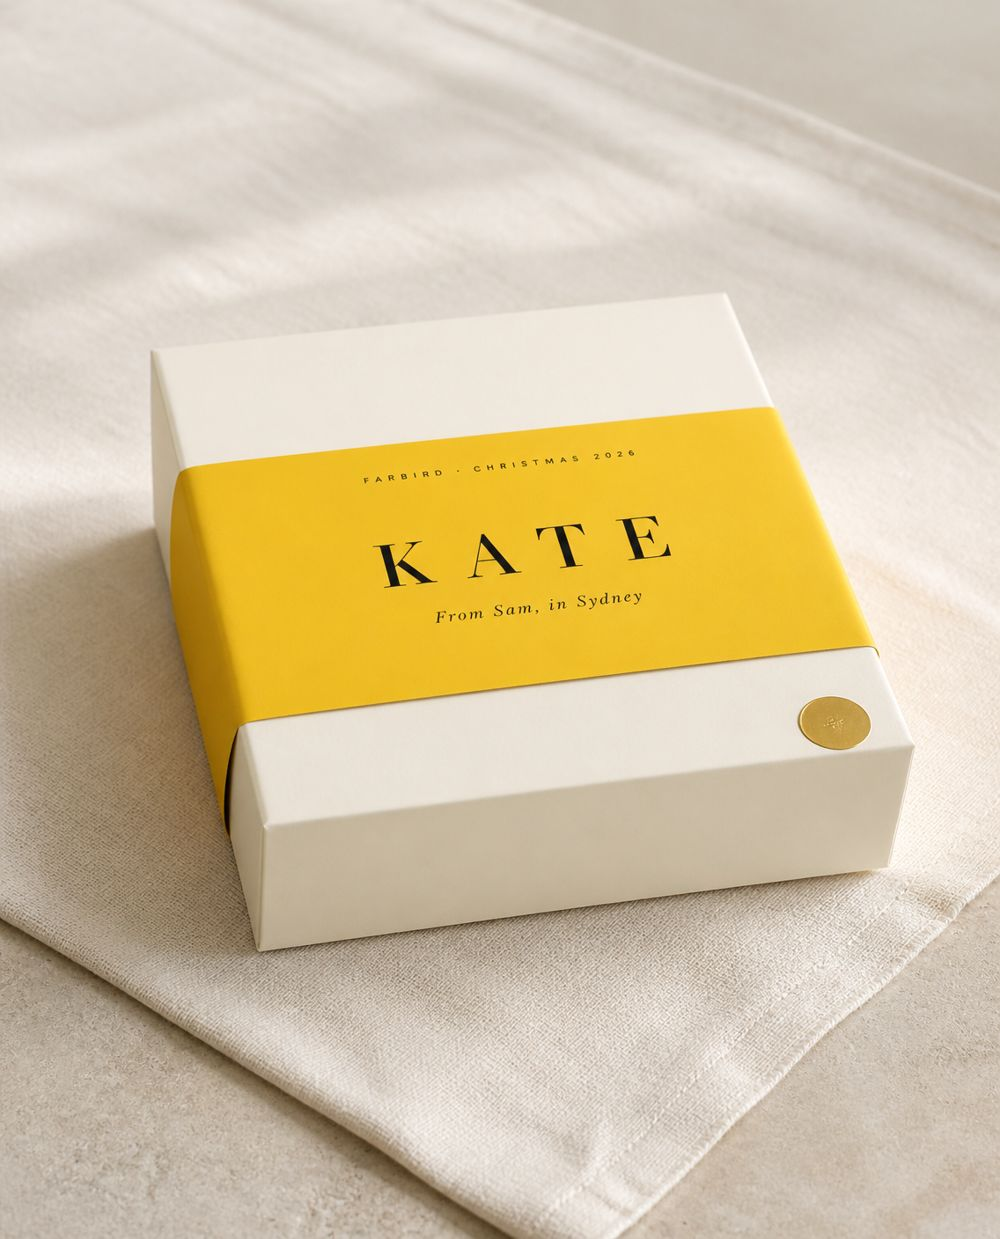
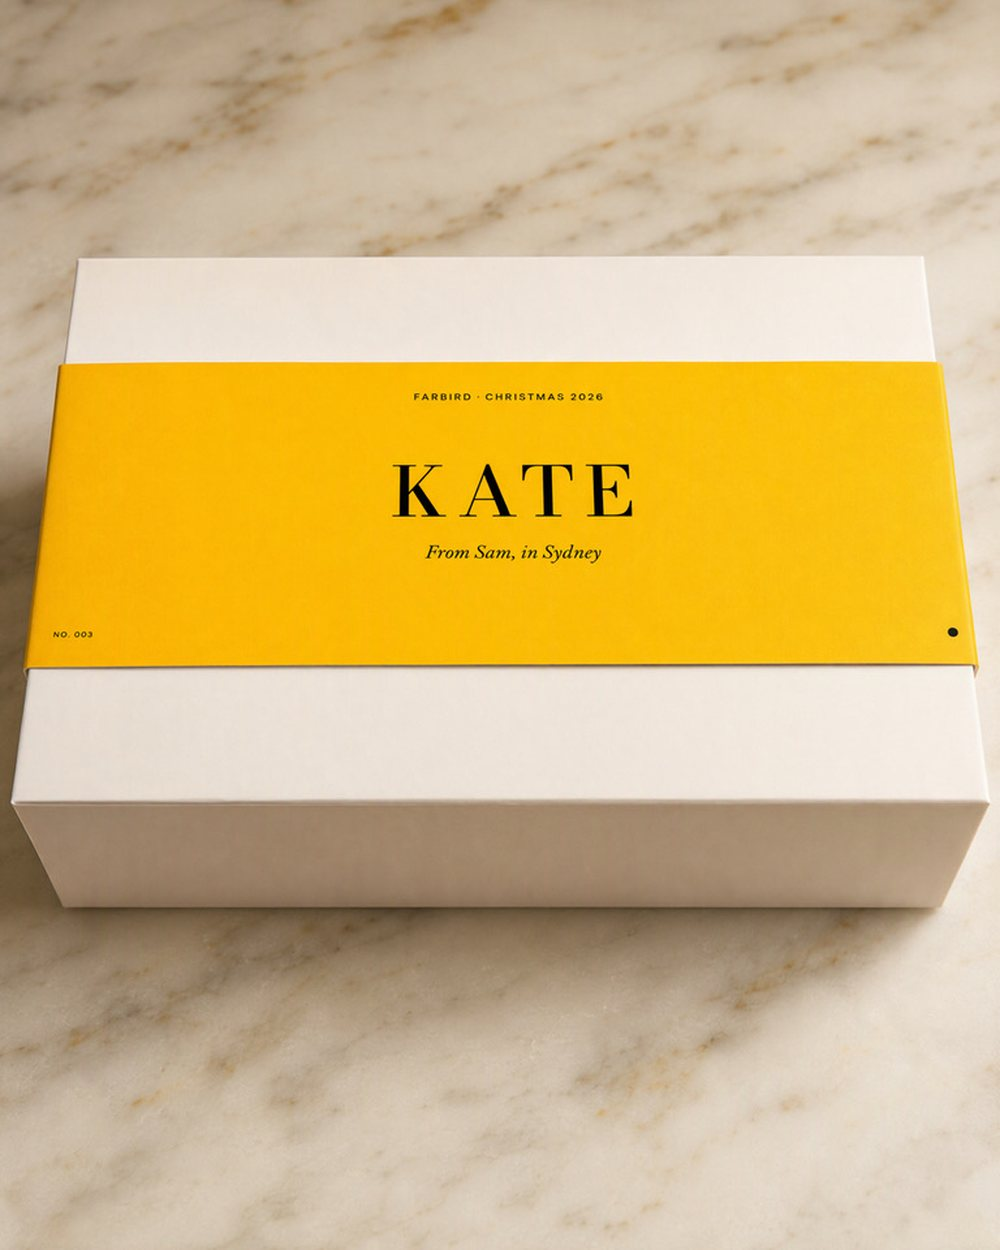
Replace concept box renders with prototype box photos
Ten outside and peek-inside shots (Sandra, Graham, Kate, Aroha, Nico), cropped to 4:5 with the editor watermark removed. Alt text describes each box's contents; the prototype note and the What's inside image now use the real Mum box.

Claude-Session: https://claude.ai/code/session_01P4aSddHCH2b35pEcE18pJC

diff --git a/index.html b/index.html
@@ -334,11 +334,11 @@
       <h2 class="section" id="boxesH">You pick who it's for. We pick what's in it.</h2>
       <p class="sub">Each box is built around one person: one thing that's trending overseas right now, plus treats from home. No browsing forty options at 11pm.</p>
       <ul class="boxgrid">
-        <li><figure><div class="shot"><div class="tile" style="background:var(--pohutukawa);color:var(--ivory)">MUM</div><img src="img/box-mum.jpg" alt="The Mum box: a red sleeve printed with the name Sandra on an ivory box" loading="lazy" onerror="this.remove()"><img class="open" src="img/box-mum-open.jpg" alt="" loading="lazy" onerror="this.remove()"><span class="peek">Peek inside</span></div><h3>Mum</h3><p>The one she'll show everyone at the bach.</p></figure></li>
-        <li><figure><div class="shot"><div class="tile" style="background:var(--bush);color:var(--ivory)">GRAHAM</div><img src="img/box-dad.jpg" alt="The Dad box: a bush-green sleeve printed with the name Graham on an ivory box" loading="lazy" onerror="this.remove()"><img class="open" src="img/box-dad-open.jpg" alt="" loading="lazy" onerror="this.remove()"><span class="peek">Peek inside</span></div><h3>Dad</h3><p>Better than socks. Still might include socks.</p></figure></li>
-        <li><figure><div class="shot"><div class="tile" style="background:var(--kowhai);color:var(--ink)">KATE</div><img src="img/box-sibling.jpg" alt="The Sibling box: a kōwhai-yellow sleeve printed with the name Kate on an ivory box" loading="lazy" onerror="this.remove()"><img class="open" src="img/box-sibling-open.jpg" alt="" loading="lazy" onerror="this.remove()"><span class="peek">Peek inside</span></div><h3>The sibling</h3><p>Finally, a present that makes your sister look bad.</p></figure></li>
-        <li><figure><div class="shot"><div class="tile" style="background:var(--musk);color:var(--ink)">AROHA</div><img src="img/box-partner.jpg" alt="The Partner box: a musk-pink sleeve on an ivory box" loading="lazy" onerror="this.remove()"><img class="open" src="img/box-partner-open.jpg" alt="" loading="lazy" onerror="this.remove()"><span class="peek">Peek inside</span></div><h3>Long-distance partner</h3><p>Because a video call isn't a present.</p></figure></li>
-        <li><figure><div class="shot"><div class="tile" style="background:var(--jandal);color:var(--ivory)">NICO</div><img src="img/box-kids.jpg" alt="The Kids box: a jandal-blue sleeve on an ivory box" loading="lazy" onerror="this.remove()"><img class="open" src="img/box-kids-open.jpg" alt="" loading="lazy" onerror="this.remove()"><span class="peek">Peek inside</span></div><h3>The kids</h3><p>Nieces, nephews, godkids. Instant favourite uncle.</p></figure></li>
+        <li><figure><div class="shot"><div class="tile" style="background:var(--pohutukawa);color:var(--ivory)">MUM</div><img src="img/box-mum.jpg" alt="The Mum box: a red sleeve printed with the name Sandra on an ivory box" loading="lazy" onerror="this.remove()"><img class="open" src="img/box-mum-open.jpg" alt="Inside the Mum box: a stoneware mug, L'Occitane hand cream, Bonne Maman jam and a card for Sandra" loading="lazy" onerror="this.remove()"><span class="peek">Peek inside</span></div><h3>Mum</h3><p>The one she'll show everyone at the bach.</p></figure></li>
+        <li><figure><div class="shot"><div class="tile" style="background:var(--bush);color:var(--ivory)">GRAHAM</div><img src="img/box-dad.jpg" alt="The Dad box: a bush-green sleeve printed with the name Graham on an ivory box" loading="lazy" onerror="this.remove()"><img class="open" src="img/box-dad-open.jpg" alt="Inside the Dad box: a BrüMate cup, Happy Socks, Mike's Hot Honey and a card for Graham" loading="lazy" onerror="this.remove()"><span class="peek">Peek inside</span></div><h3>Dad</h3><p>Better than socks. Still might include socks.</p></figure></li>
+        <li><figure><div class="shot"><div class="tile" style="background:var(--kowhai);color:var(--ink)">KATE</div><img src="img/box-sibling.jpg" alt="The Sibling box: a kōwhai-yellow sleeve printed with the name Kate on an ivory box" loading="lazy" onerror="this.remove()"><img class="open" src="img/box-sibling-open.jpg" alt="Inside the Sibling box: a BrüMate tumbler, Sol de Janeiro body cream, Dubai pistachio chocolate and a card for Kate" loading="lazy" onerror="this.remove()"><span class="peek">Peek inside</span></div><h3>The sibling</h3><p>Finally, a present that makes your sister look bad.</p></figure></li>
+        <li><figure><div class="shot"><div class="tile" style="background:var(--musk);color:var(--ink)">AROHA</div><img src="img/box-partner.jpg" alt="The Partner box: a musk-pink sleeve printed with the name Aroha on an ivory box" loading="lazy" onerror="this.remove()"><img class="open" src="img/box-partner-open.jpg" alt="Inside the Partner box: body care, eye patches, Divine chocolate, L'Occitane hand cream and a card for Aroha" loading="lazy" onerror="this.remove()"><span class="peek">Peek inside</span></div><h3>Long-distance partner</h3><p>Because a video call isn't a present.</p></figure></li>
+        <li><figure><div class="shot"><div class="tile" style="background:var(--jandal);color:var(--ivory)">NICO</div><img src="img/box-kids.jpg" alt="The Kids box: a jandal-blue sleeve printed with the name Nico on an ivory box" loading="lazy" onerror="this.remove()"><img class="open" src="img/box-kids-open.jpg" alt="Inside the Kids box: a Squishmallow, a Sonny Angel figure, gummy bears and a card for Nico" loading="lazy" onerror="this.remove()"><span class="peek">Peek inside</span></div><h3>The kids</h3><p>Nieces, nephews, godkids. Instant favourite uncle.</p></figure></li>
       </ul>
       <p class="price"><strong>NZ$99 for a grown-up's box. NZ$59 for the kids.</strong> Delivered free to the North Island; South Island delivery is NZ$11.99 per order, or the equivalent in your currency.</p>
       <ul class="fx" aria-label="Prices in your currency">
@@ -349,7 +349,7 @@
         <li><b>Canada</b>C$85.99 · C$49.99</li>
       </ul>
       <p class="fx-note">Grown-up's box · kids box. Ordering from one of these countries? You pay a fixed price in your own currency, so there's no conversion maths at checkout. Anywhere else, it's NZ$99 and NZ$59, or the equivalent in your currency.</p>
-      <p class="note">Concept boxes. The real ones are being made in Auckland now, and we'll swap these for photos of them soon.</p>
+      <p class="note">Our prototype boxes. Contents change with what's trending, and every Christmas box is packed in Auckland.</p>
     </div>
   </section>
 
@@ -367,7 +367,7 @@
       </div>
       <div class="inside-shot">
         <div class="card-mock"><span>Your photo here</span><i>Sandra, Christmas 2026</i></div>
-        <img src="img/box-partner-open.jpg" alt="Inside the Aroha box: pink tissue, a yellow seal, a card, a perfume mist, a satin scrunchie and a printed photo card" loading="lazy" onerror="this.remove()">
+        <img src="img/box-mum-open.jpg" alt="Inside Sandra's box: her card on the lid, a stoneware mug, hand cream and jam" loading="lazy" onerror="this.remove()">
       </div>
     </div>
   </section>
